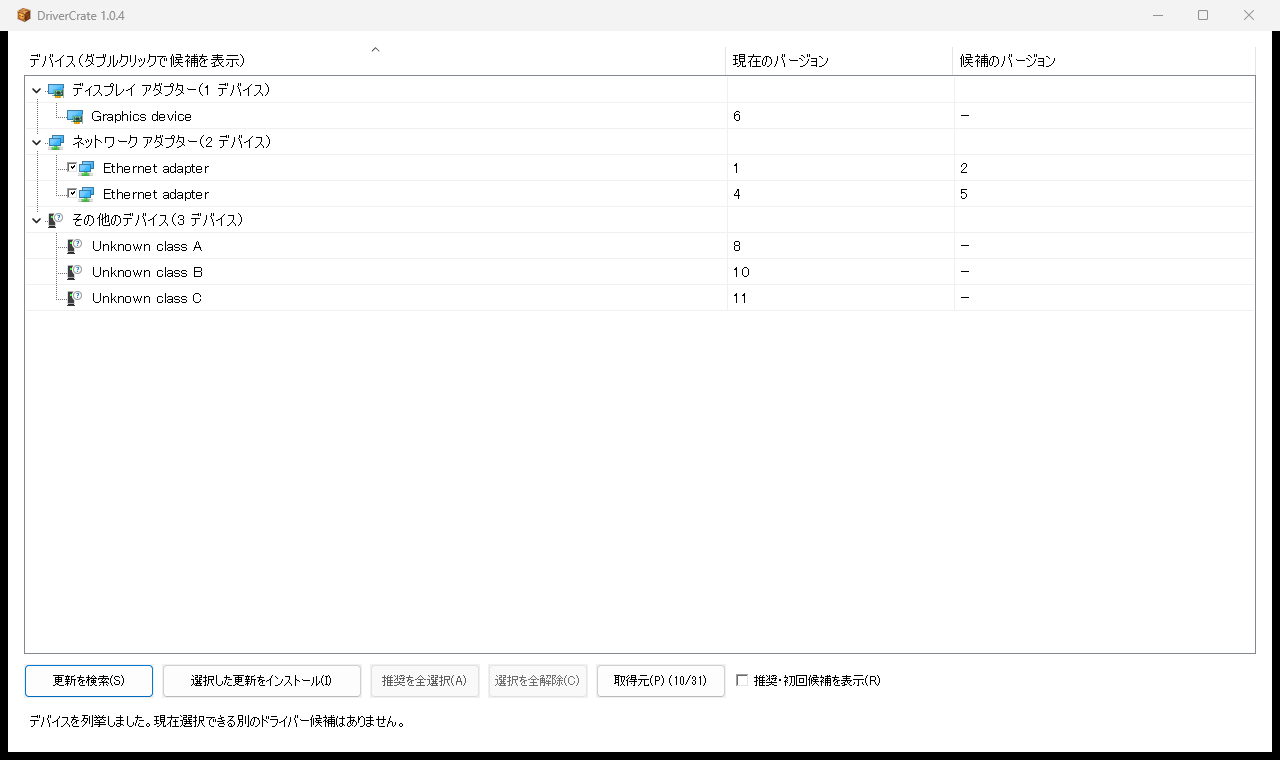
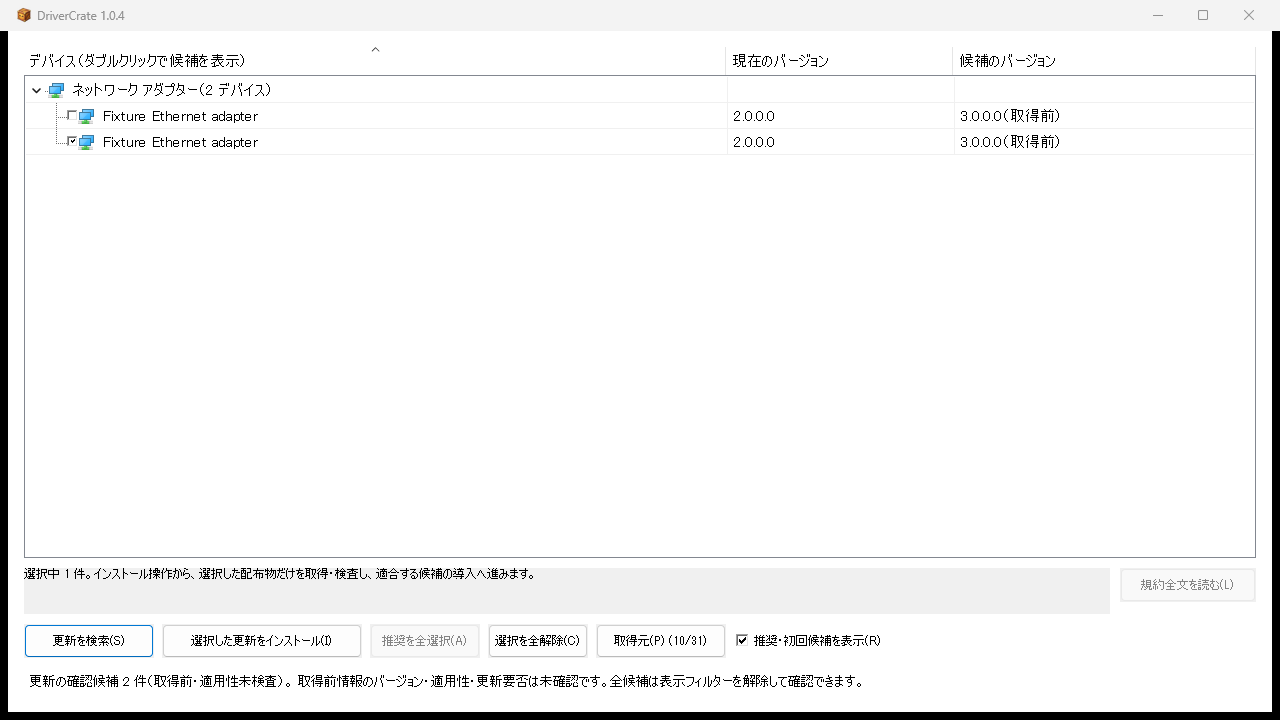
Align README instructions and sample images with the application UI

diff --git a/tests/ui/metadata_ui_tests.cpp b/tests/ui/metadata_ui_tests.cpp
@@ -2,7 +2,7 @@
 /**
  * @file metadata_ui_tests.cpp
  * @brief 製品と同じWin32画面の情報検索専用内部試験。
- * @version 01.53.02
+ * @version 01.53.03
  * @date 2026/11/11
  * @author Shunji Ogawa
  * @copyright Copyright (c) 2026 EnterSystem CO.,LTD.
@@ -95,6 +95,7 @@
  * Ver.01.53.00 Shunji Ogawa  2026/11/10  最新実確認の選択表示と日内復元保護の実在再利用を接続。
  * Ver.01.53.01 Shunji Ogawa  2026/11/11  復元失敗の選択保持とnative tooltip退場の試験観測を整合。
  * Ver.01.53.02 Shunji Ogawa  2026/11/11  README画像専用入口を新版候補の通常選択状態へ限定。
+ * Ver.01.53.03 Shunji Ogawa  2026/11/11  README用検索結果を実filter操作で更新して撮影。
  * </pre>
  *
  * @note 明示optionでのみ起動し、実device・network・取得・復旧・導入へ接続しない。
@@ -9449,6 +9450,13 @@ void runHistoryUiScenarios( TestContext &context, const bool keysOnly = false)
 	DRIVERCRATE_EXPECT( context, !setupGuard.handled && !setupGuard.failed) ;
 	// 画像専用入口は負例probeの前に通常の新版候補を表示して終了します。
 	if( historyImagesOnly) {
+		// 既checkboxの通常handlerで表示copyの版と検索結果の案内を同期します。
+		SendMessageW( handle, WM_COMMAND, IDC_RECOMMENDED_ONLY, 0) ;
+		Access::expandClassPreview( window) ;
+		DRIVERCRATE_EXPECT( context, IsWindowEnabled( GetDlgItem( handle, IDC_INSTALL)) != FALSE) ;
+#if !defined( _DEBUG)
+		DRIVERCRATE_EXPECT( context, captureWindow( handle, L"device-list-ready")) ;
+#endif
 		DialogState sample{.context = &context,
 						   .owner	= handle,
 						   .mode	= DialogMode::DETAILS} ;	// 同じ元planの通常dialogです。
